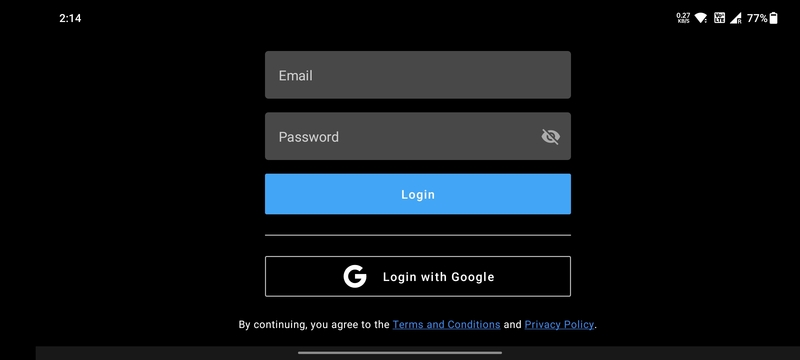
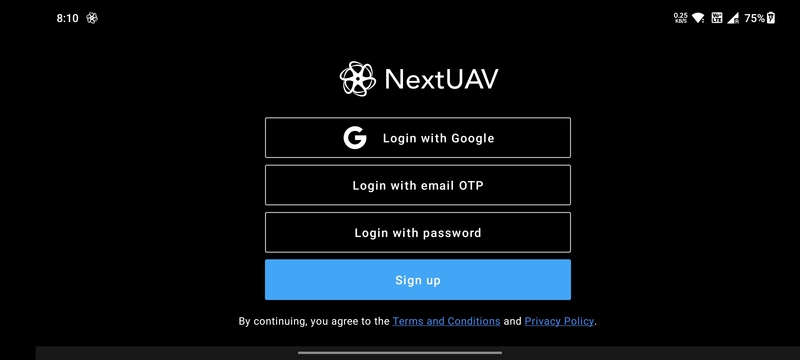
Update login

diff --git a/docs/launchpad/getting-started/login.md b/docs/launchpad/getting-started/login.md
@@ -4,9 +4,14 @@ sidebar_position: 5
 
 # Login
 
-You can login with your **Google ID** and no separate registration process is required.
+LaunchPad provides several login methods:
 
-If you want to use some other ID apart from your Google ID, you can also register as a user on the
-[NextConsole](https://console.nextuav.com/login/signup/) and login using those credentials.
+- `Google`
+- `Email OTP`
+- `Password`
+
+`Login with Google` requires no separate registration process.
+
+For the other methods, user are required to register themselves using the `Sign up` option.
 
 ![Login](./img/login.jpg)
